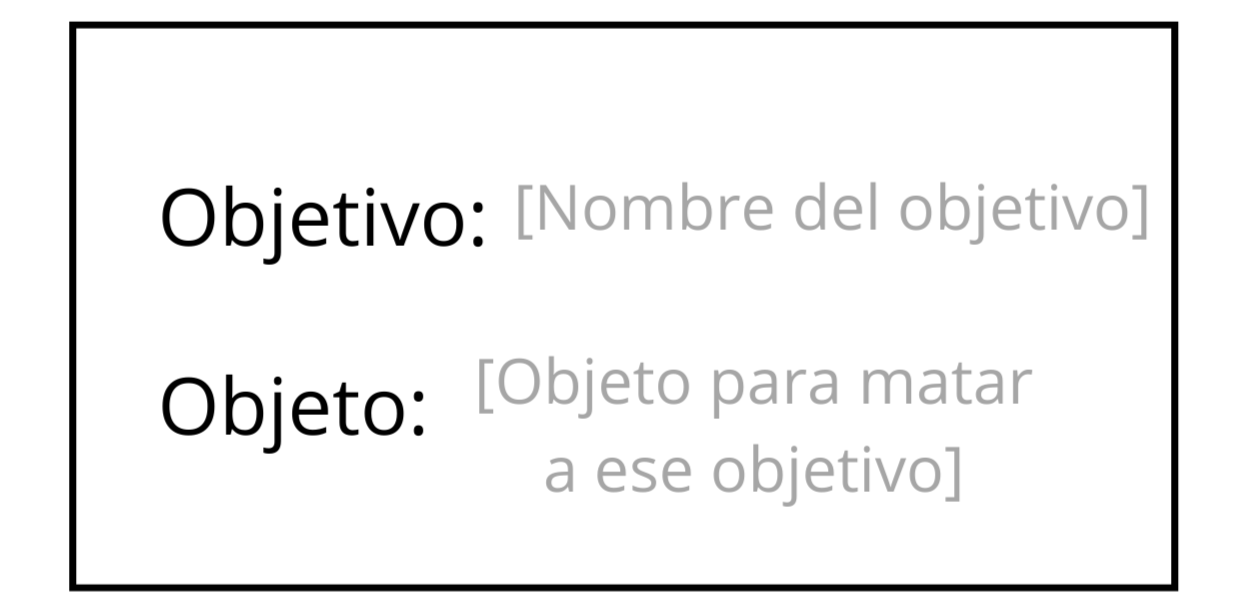
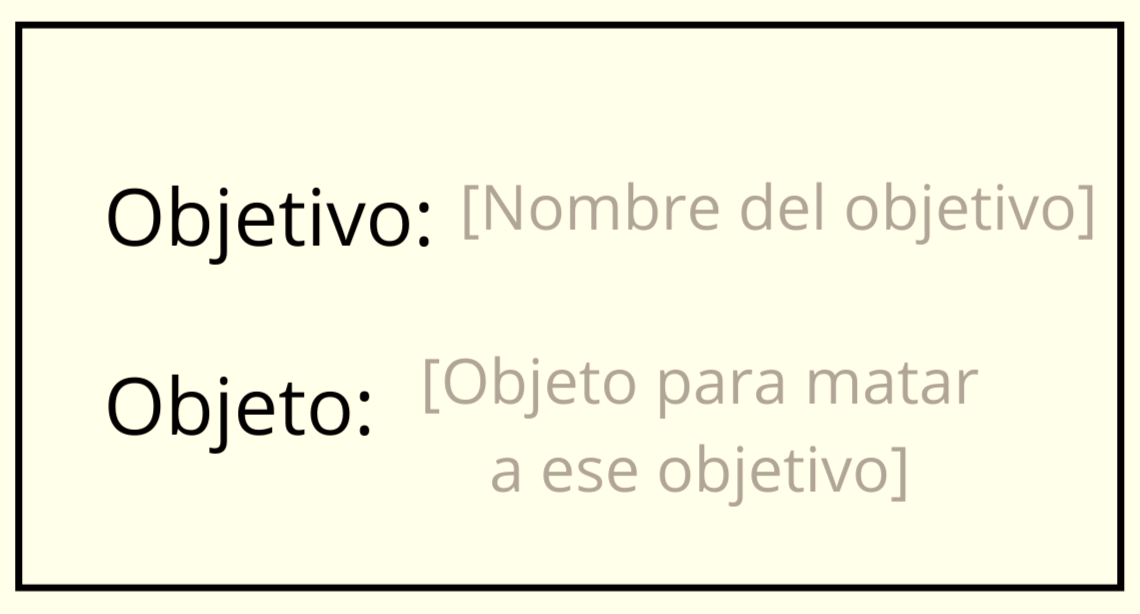
several changes and improvements

diff --git a/src/app/(site)/mafia/page.tsx b/src/app/(site)/mafia/page.tsx
@@ -1,4 +1,3 @@
-import { MafiaDiagram } from "@/components/MafiaDiagram";
 import { getSupabaseAdmin } from "@/lib/supabase";
 import { MafiaRoster } from "./MafiaRoster";
 
@@ -21,14 +20,14 @@ export default async function MafiaPage() {
       </p>
 
       <div className="bg-navy-800 text-white rounded-2xl shadow-card p-6 mb-6">
-        <h2 className="font-display font-semibold text-xl mb-2">Cómo se juega</h2>
+        <h2 className="font-display font-semibold text-xl mb-2">¿Cómo se juega?</h2>
         <p className="text-white/80 text-sm leading-relaxed">
           El juego de La Mafia ya es un clásico de esta fiesta. Se jugará durante todo el fin de semana.
           Al llegar a la casa, pídele a 𝐏𝐚𝐮𝐥𝐢𝐬𝐡 tu papelito &ldquo;Top Secret&rdquo;. En él encontrarás escrito a quién tienes que 𝘮𝘢𝘵𝘢𝘳
           y con qué objeto.
         </p>
 
-        <div className="bg-muted/30 rounded-lg p-4 mt-6 mb-6" style={{ borderWidth: 'thick' }}>
+        <div className="bg-muted/30 border-gold-50 rounded-lg p-4 mt-6 mb-6" style={{ borderWidth: 'thick' }}>
           <h3 className="text-lg font-semibold mb-4 text-center">Top Secret</h3>
           
           <div className="flex flex-col sm:flex-row items-center justify-center gap-6 mb-1">
@@ -57,17 +56,13 @@ export default async function MafiaPage() {
           le dices discretamente que está 𝘮𝘶𝘦𝘳𝘵𝘰 y él o ella te entregará el que era su objetivo.
         </p>
 
-        <div className="bg-muted/30 rounded-lg p-4 mt-6 mb-6" style={{ borderWidth: 'thick' }}>
-          <h3 className="text-lg font-semibold mb-4 text-center">Nueva víctima</h3>
-          
-          <div className="flex flex-col sm:flex-row items-center justify-center gap-6 mb-1">
-            <div className="flex flex-col items-center">
-              <img 
-                src="/nueva-victima.jpg" 
-                alt="Acción de darle a la víctima el objeto para matarla" 
-                className="w-full max-w-48 sm:max-w-64 object-contain rounded-lg shadow-lg"
-              />
-            </div>
+        <div className="flex flex-col sm:flex-row items-center justify-center gap-4 mt-6 mb-6">
+          <div className="flex flex-col items-center">
+            <img 
+              src="/mafia-instrucciones.jpg" 
+              alt="Instrucciones del juego paso por paso" 
+              className="w-full max-w-56 sm:max-w-74 object-contain rounded-lg shadow-lg"
+            />
           </div>
         </div>
 
@@ -77,13 +72,30 @@ export default async function MafiaPage() {
         </p>
       </div>
 
-      <div className="mb-8">
-        <MafiaDiagram />
+      <div className="bg-navy-100 text-navy-900 rounded-2xl shadow-card p-6 mb-6">
+        <h2 className="font-display font-semibold text-xl mb-2">¿Quién ha muerto y quién sigue jugando?</h2>
+        <p className="text-navy-700 text-sm leading-relaxed">
+          Para que todos sepamos cómo va el juego, quién sigue vivo y quién ha muerto, avisad a 𝐏𝐚𝐮𝐥𝐢𝐬𝐡 cuando os hayan 𝑚𝑎𝑡𝑎𝑑𝑜.
+        </p>
+
+        <div className="bg-muted/30 rounded-lg p-4 mt-6 mb-6" style={{ borderWidth: 'thick' }}>
+          <h3 className="text-lg font-semibold mb-4 text-center">Informa a Paulish</h3>
+          <div className="flex flex-col sm:flex-row items-center justify-center gap-6 mb-1">
+            <div className="flex flex-col items-center">
+              <img 
+                src="/diselo-a-pau.png" 
+                alt="Acción de contarle a Paulish que estás muerto" 
+                className="w-full max-w-48 sm:max-w-64 object-contain rounded-lg shadow-lg"
+              />
+            </div>
+          </div>
+        </div>
+
+        <p className="text-navy-700 text-sm leading-relaxed">
+          Aquí abajo podrás ir viendo quién queda...hasta que 𝐬𝐨𝐥𝐨 𝐪𝐮𝐞𝐝𝐞 𝟏.
+        </p>
       </div>
 
-      <h2 className="font-display font-semibold text-lg text-navy-800 mb-3">
-        Recuento de víctimas:
-      </h2>
       <MafiaRoster initialPassengers={data ?? []} />
     </div>
   );

diff --git a/src/app/(site)/mafia/MafiaRoster.tsx b/src/app/(site)/mafia/MafiaRoster.tsx
@@ -11,7 +11,7 @@ interface PassengerStatus {
 
 function MafiaCard({ passenger }: { passenger: PassengerStatus }) {
   const [broken, setBroken] = useState(false);
-  const photoSrc = passenger.is_dead ? "/mafia-victim-placeholder.png" : passengerPhotoUrl(passenger.full_name);
+  const photoSrc = passenger.is_dead ? "/mafia-victim-placeholder.jpg" : passengerPhotoUrl(passenger.full_name);
 
   return (
     <div
@@ -25,20 +25,20 @@ function MafiaCard({ passenger }: { passenger: PassengerStatus }) {
           src={photoSrc}
           alt=""
           onError={() => setBroken(true)}
-          className="absolute inset-0 h-full w-full object-cover opacity-40"
+          className="absolute inset-0 h-full w-full object-cover opacity-80"
         />
       )}
       <div className={`absolute inset-0 ${passenger.is_dead ? "bg-red-600/70" : "bg-emerald-700/60"}`} />
-      <div className="relative z-10 flex h-full flex-col items-center justify-center gap-1 p-2 text-center">
+      <div className="relative z-10 flex h-full flex-col items-center justify-end p-2 text-center">
         <span
           className={`font-display font-bold text-white ${passenger.is_dead ? "line-through" : ""}`}
         >
           {passenger.full_name}
         </span>
         {passenger.is_dead ? (
-          <span className="text-xs font-medium text-white/90">💀 Eliminado/a</span>
+          <span className="text-xs font-medium text-white/90">🔴 Eliminado/a</span>
         ) : (
-          <span className="text-xs font-medium text-white/90">😎 Jugando</span>
+          <span className="text-xs font-medium text-white/90">🟢 Jugando</span>
         )}
       </div>
     </div>
@@ -125,14 +125,17 @@ export function MafiaRoster({ initialPassengers }: { initialPassengers: Passenge
           <div className="mafia-modal-card bg-white rounded-2xl shadow-card max-w-sm w-full p-6 text-center">
             {/* eslint-disable-next-line @next/next/no-img-element */}
             <img
-              src="/mafia-victim-placeholder.png"
+              src="/mafia-victim-placeholder-1.png"
               alt=""
               className="w-32 h-32 mx-auto mb-4 drop-shadow-lg"
             />
             <h2 className="font-display font-semibold text-2xl text-navy-800 mb-3">
-              {modalNames.length === 1 ? "Nueva víctima" : "Nuevas víctimas"}
+              ⚠NOVEDADES⚠
             </h2>
-            <ul className="text-navy-700 font-medium text-lg space-y-1 mb-6 max-h-36 overflow-y-auto">
+            <p className="font-display font-semibold text-navy-700 mb-3">
+              {modalNames.length === 1 ? "Ha muerto:" : "Han muerto:"}
+            </p>
+            <ul className="text-navy-300 font-medium text-lg space-y-1 mb-6 max-h-36 overflow-y-auto">
               {modalNames.map((name, i) => (
                 <li key={`${name}-${i}`}>{name}</li>
               ))}

diff --git a/src/app/(site)/pasajeros/page.tsx b/src/app/(site)/pasajeros/page.tsx
@@ -24,6 +24,26 @@ export default async function PasajerosPage() {
       <p className="text-navy-500 text-sm mb-6">
         Todo el pasaje y la tripulación de esta edición
       </p>
+
+      <div className="bg-navy-800 text-white rounded-2xl shadow-card p-6 mb-4">
+        <h2 className="font-display font-semibold text-xl mb-2">Check-in</h2>
+
+        <p className="text-white/80 text-sm leading-relaxed">
+          Al llegar, pasa por el mostrador de Check-in para recoger tu billete y extras del viaje.
+        </p>
+
+        <div className="bg-muted/30 border-gold-50 rounded-lg p-2 mt-4 mb-1" style={{ borderWidth: 'thick' }}>          
+          <div className="flex flex-col sm:flex-row items-center justify-center gap-1 mt-1 mb-1">
+            <img 
+              src="/check-in.jpg" 
+              alt="Mostrador de Check-in" 
+              className="w-full max-w-56 sm:max-w-74 object-contain rounded-lg shadow-lg"
+            />
+          </div>
+        </div>
+
+      </div>
+
       <PassengerList passengers={passengers} />
     </div>
   );

diff --git a/src/lib/loyalty.ts b/src/lib/loyalty.ts
@@ -8,17 +8,17 @@ export function getLoyaltyTier(editionsAttended: number): LoyaltyTier {
 }
 
 export const LOYALTY_TIER_LABELS: Record<LoyaltyTier, string> = {
-  Clasica: "Capanair Club Clásica",
-  Plata: "Capanair Club Plata",
-  Oro: "Capanair Club Oro",
-  Platino: "Capanair Club Platino",
+  Clasica: "Capanair Classic",
+  Plata: "Capanair Plata",
+  Oro: "Capanair Oro",
+  Platino: "Capanair Platino",
 };
 
 export const LOYALTY_TIER_STYLES: Record<LoyaltyTier, string> = {
-  Clasica: "bg-navy-100 text-navy-700 border border-navy-200",
-  Plata: "bg-slate-200 text-slate-700 border border-slate-300",
-  Oro: "bg-gold-100 text-gold-800 border border-gold-300",
-  Platino: "bg-navy-800 text-gold-200 border border-gold-500",
+  Clasica: "bg-grey-100 text-grey-400 border border-grey-400",
+  Plata: "bg-slate-400 text-slate-100 border border-slate-500",
+  Oro: "bg-gold-100 text-gold-500 border border-gold-300",
+  Platino: "bg-navy-700 text-gold-400 border border-gold-200",
 };
 
 export const DAY_LABELS: Record<string, string> = {

diff --git a/src/app/(site)/capawards/CapawardsVotingFlow.tsx b/src/app/(site)/capawards/CapawardsVotingFlow.tsx
@@ -41,12 +41,12 @@ function IdentityCard({
           src={passengerPhotoUrl(person.full_name)}
           alt=""
           onError={() => setBroken(true)}
-          className="absolute inset-0 h-full w-full object-cover opacity-40"
+          className="absolute inset-0 h-full w-full object-cover opacity-80"
         />
       )}
       <div
         className={`absolute inset-0 transition-colors ${
-          canVote ? "bg-navy-800/50 group-hover:bg-gold-600/40" : "bg-navy-400/70"
+          canVote ? "bg-navy-900/50 group-hover:bg-gold-600/40" : "bg-grey-100/70"
         }`}
       />
       <div className="relative z-10 flex h-full items-center justify-center p-2 text-center">

diff --git a/src/components/PassengerList.tsx b/src/components/PassengerList.tsx
@@ -52,7 +52,7 @@ export function PassengerList({ passengers }: { passengers: PassengerListItem[] 
                   {p.badges.map((badge) => (
                     <span
                       key={badge}
-                      className="inline-flex items-center rounded-full bg-coral-100 text-coral-700 border border-coral-200 px-2.5 py-1 text-xs font-medium"
+                      className="inline-flex items-center rounded-full bg-white text-navy-500 border border-navy-200 px-2.5 py-1 text-xs font-medium"
                     >
                       {badge}
                     </span>

diff --git a/tailwind.config.ts b/tailwind.config.ts
@@ -20,7 +20,7 @@ const config: Config = {
         },
         gold: {
           DEFAULT: "#C9A24B",
-          50: "#FBF6EA",
+          50: "#F5ECD4",
           100: "#F4E7C8",
           200: "#EAD4A1",
           300: "#DFC17A",
